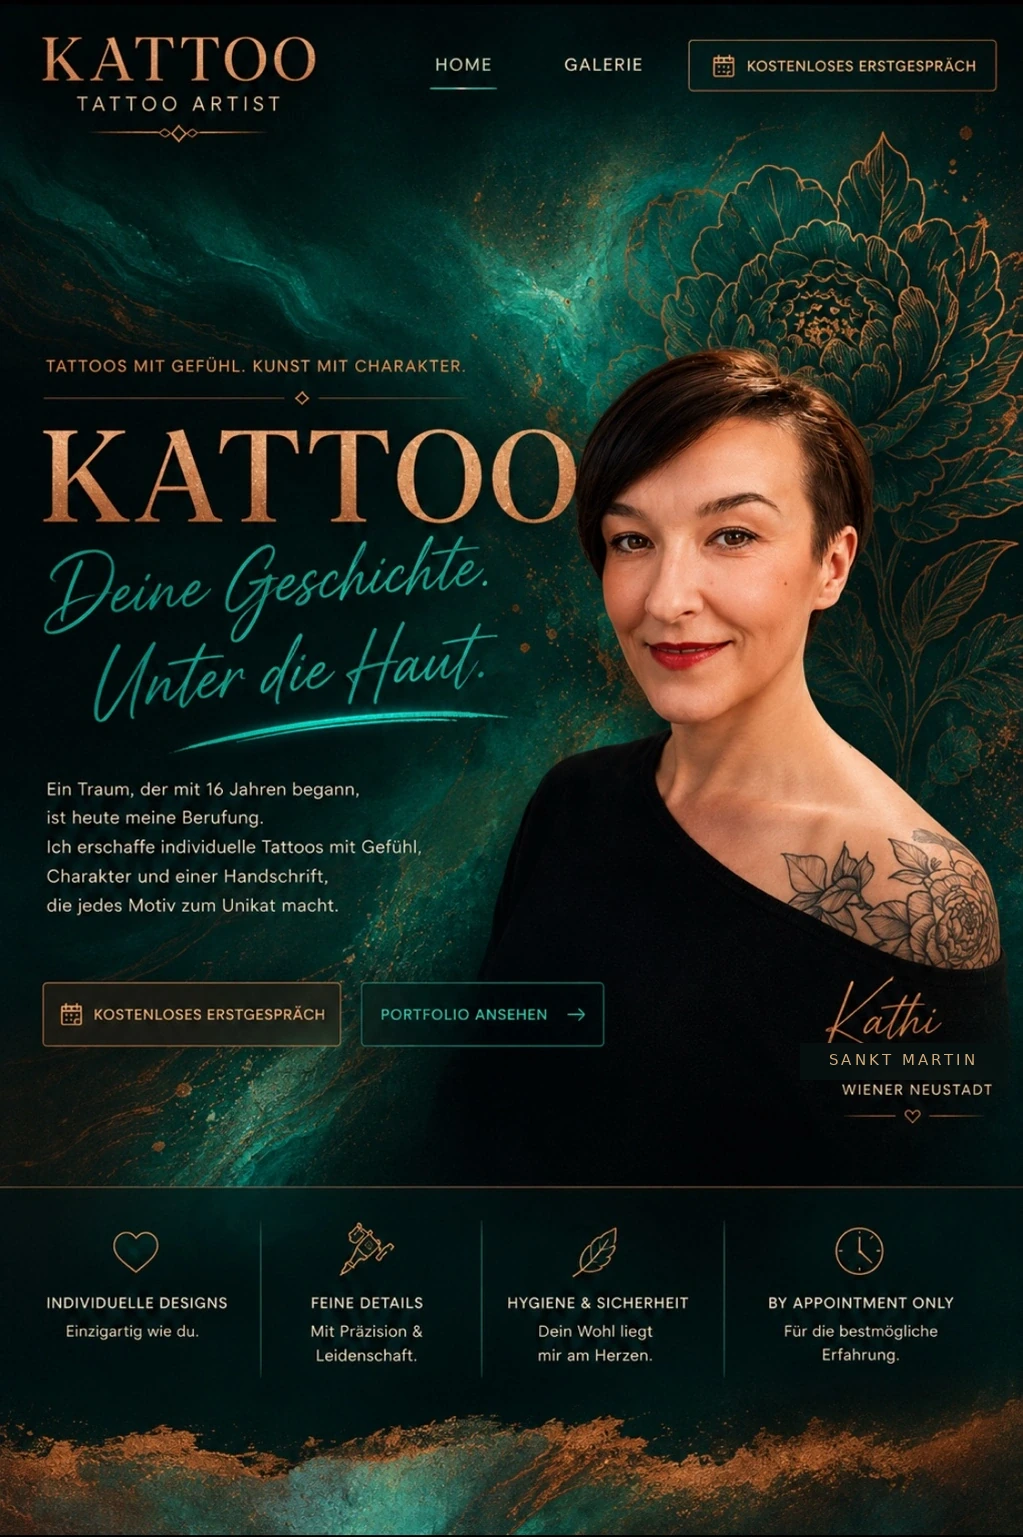
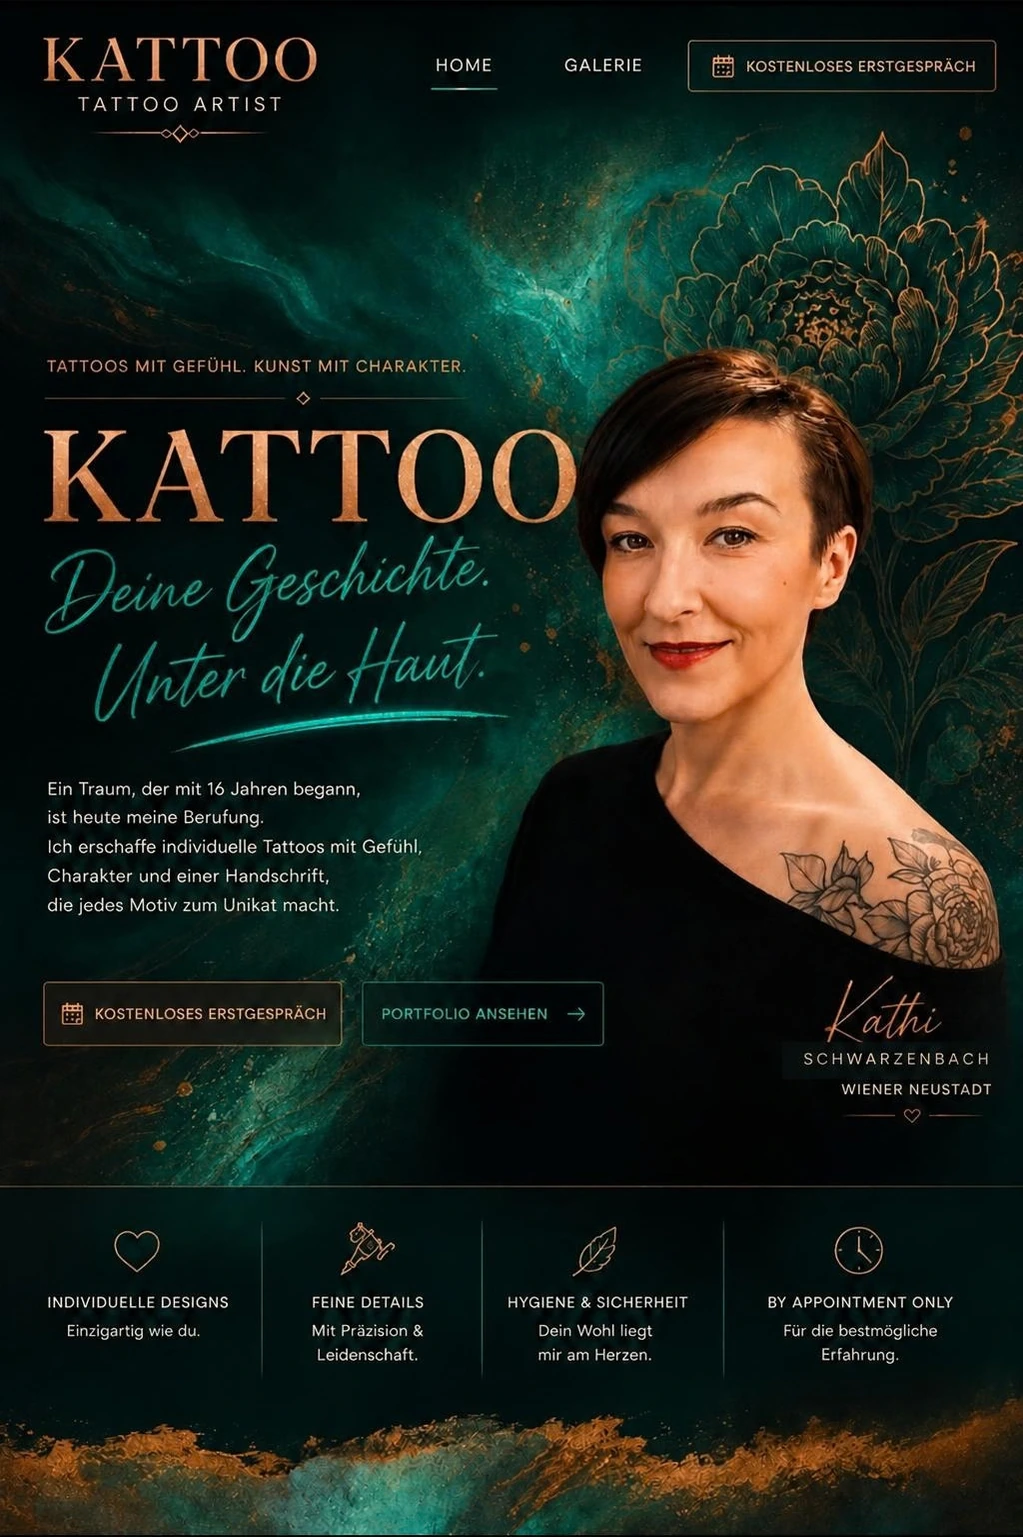
Hero-Grafik aktualisiert: Ortszeile SCHWARZENBACH
assets/hero-final.webp durch die neue Version ersetzt (Ortsangabe
unter der Kathi-Signatur: SANKT MARTIN -> SCHWARZENBACH).

Quellgrafik lag als 1024x1552 PNG vor und wurde auf exakt 1023x1537
gebracht - die Masse der bisherigen Datei. Daran haengen der
SVG-viewBox der Scribe-Pfade, die scroll-getriebene Hand-Animation
und saemtliche Prozent-Positionen der Overlay-Buttons.

Verifiziert gegen die unveraenderte index.html: alle fuenf Hitboxen
(.hero-booking-button, .hero-portfolio-button, .hit-home,
.hit-gallery, .hit-top-cta) liegen auf identischen Prozentwerten wie
mit der alten Grafik. Hand-Animation unveraendert (--hand-x
565.92 -> 427.92px, strokeDashoffset 157.6 -> 0). Keine JS-Fehler,
mobil (390px) kein horizontaler Overflow.

Cache-Buster in index.html von ?v=24 auf ?v=26 gezogen, da der
Dateiname gleich bleibt und Besucher sonst die alte Grafik
aus dem Browser-Cache sehen.

WebP q92, 252 KB (vorher 254 KB).

Claude-Session: https://claude.ai/code/session_01DiRUhawxhFY6QkopqvedRq

diff --git a/index.html b/index.html
@@ -495,7 +495,7 @@
     <section class="poster-hero" id="home" aria-label="KATTOO Startbereich">
       <canvas class="hero-particles" id="heroParticles" aria-hidden="true"></canvas>
       <div class="poster-stage" id="posterStage">
-        <img class="poster-image" src="assets/hero-final.webp?v=24" alt="KATTOO Tattoo Artist – Deine Geschichte. Unter die Haut." width="1023" height="1537">
+        <img class="poster-image" src="assets/hero-final.webp?v=26" alt="KATTOO Tattoo Artist – Deine Geschichte. Unter die Haut." width="1023" height="1537">
         <svg class="scribe-svg" id="scribeSvg" viewBox="0 0 1023 1537" preserveAspectRatio="none" aria-hidden="true">
           <!-- Existing gold line beneath the signature: east of the needle contact point. -->
           <path class="scribe-static" d="M740 1046 C790 1033 840 1030 890 1036 C920 1040 945 1047 968 1058"/>
